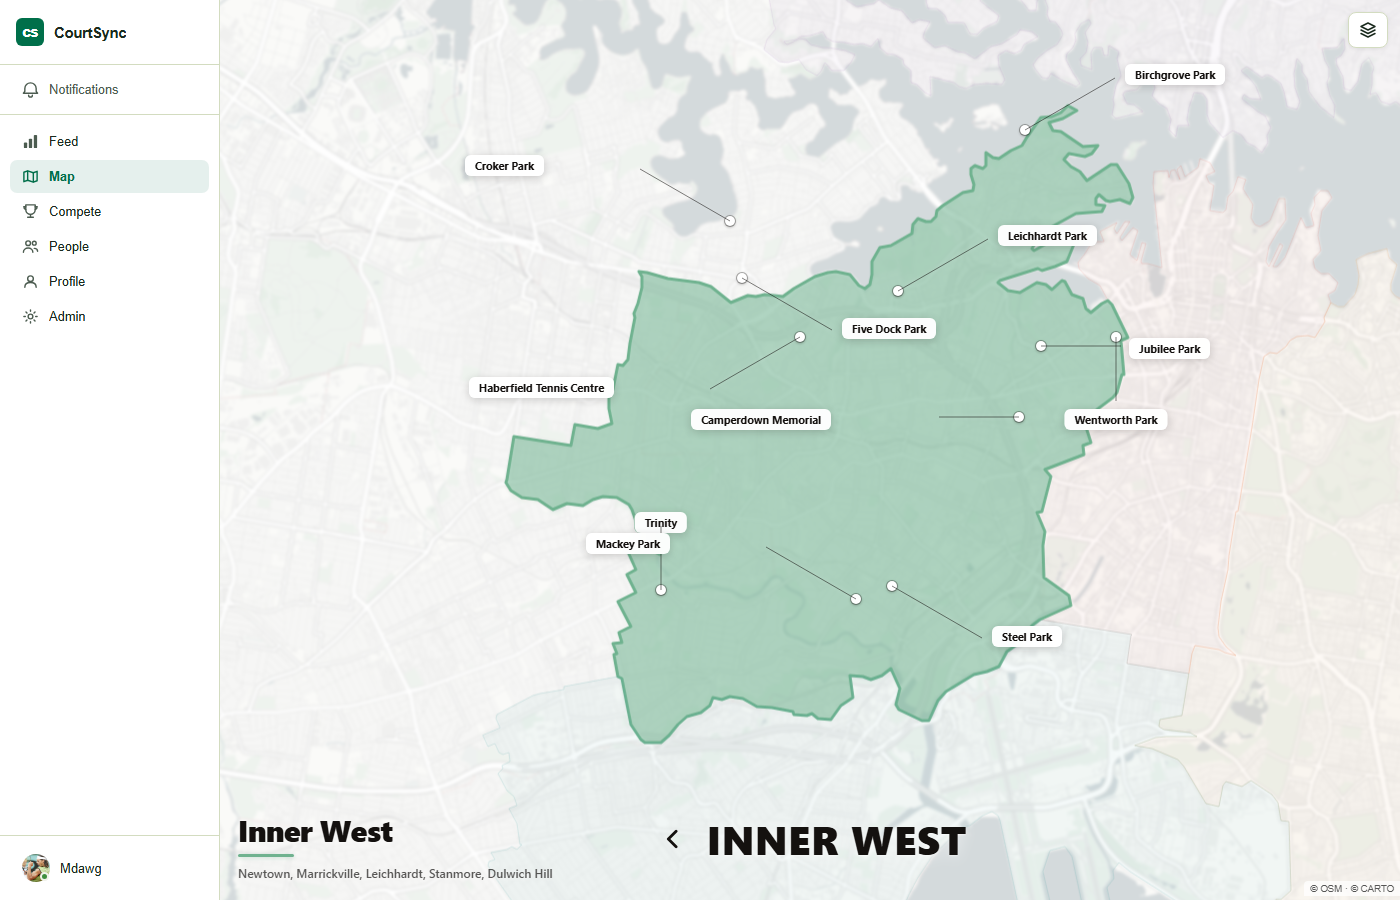
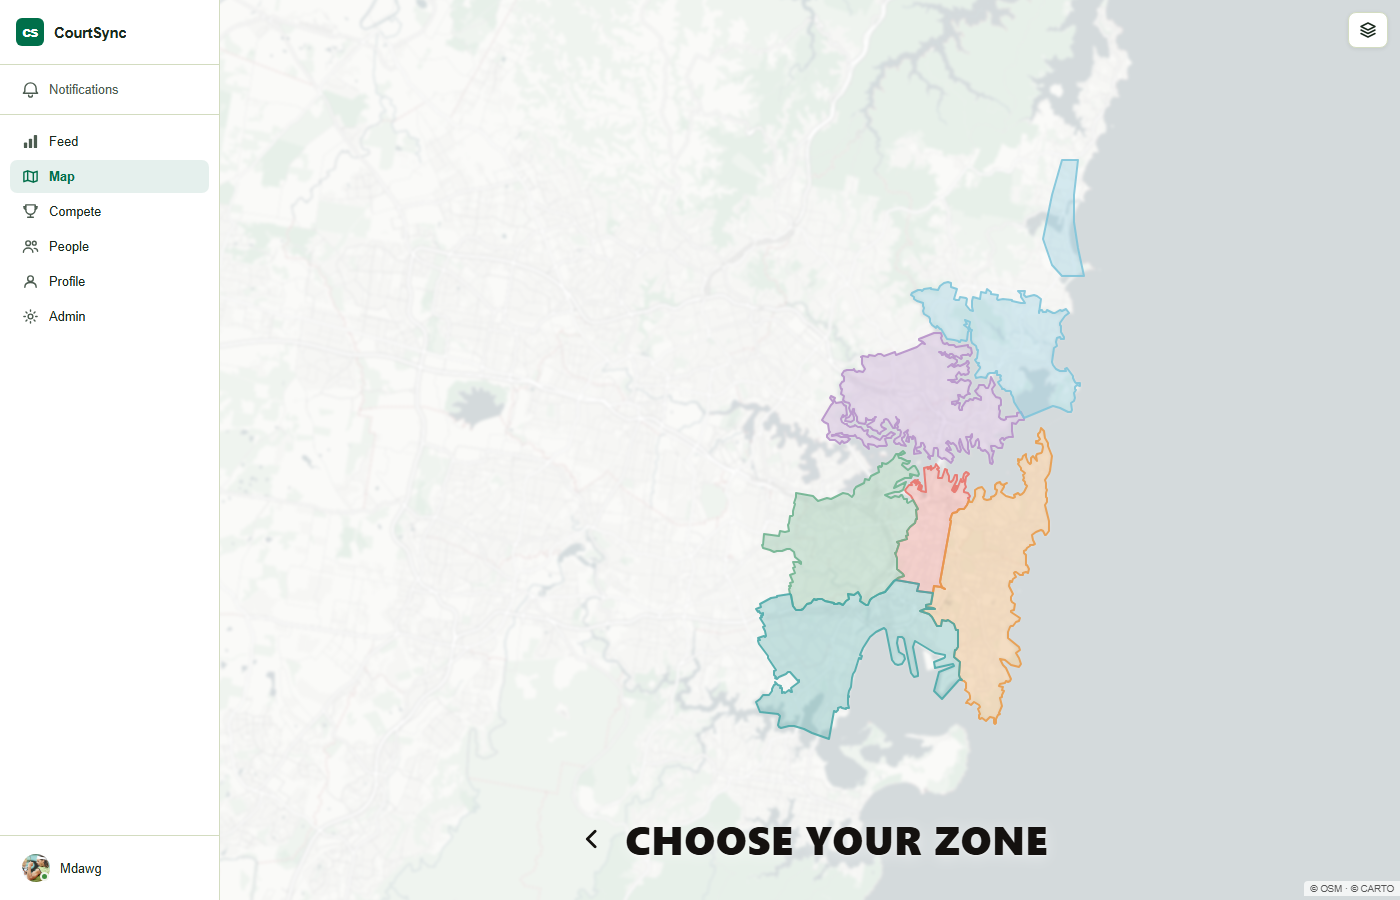
Map play mode: collision-aware court labels (calm + crowded)
User: remove the boxed labels + connector lines for normal courts.
Use clean caps text. Use lines+boxes only for courts that are too
close to neighbours.

Implementation:
  • After fitBounds settles (50ms timeout), project each court
    lat/lng to screen pixels via map.latLngToContainerPoint.
  • Pairwise pixel distance — if any neighbour is within 80px, the
    court is "crowded" and gets the offset+line treatment. Otherwise
    "calm" — pure caps typography below the dot.
  • Calm style:    .cs-play-name — no box, no line, full caps,
                   weight 800, 0.06em tracking, white halo shadow.
                   Sits 4px below the dot.
  • Crowded style: .cs-play-label — small all-caps chip with the
                   8-way diagonal line + offset (existing logic).
  • All labels are uppercase + 0.05-0.06em tracking for the brand
    voice (matches the "CHOOSE YOUR ZONE" prompt).

Net effect: most courts read as quiet typographic POIs; only the
ones in dense clusters (Eastern Suburbs southern stretch, dense
Inner West pockets) get the visual machinery to disambiguate.

Probe updated to expect the new structure. Note: bbox shifted with
the Northern Beaches manual polygon extension so the probe's
hardcoded click position is currently brittle — manual browser test
is the source of truth.

diff --git a/src/features/map/components/LeafletMap.jsx b/src/features/map/components/LeafletMap.jsx
@@ -473,68 +473,101 @@ export default function LeafletMap({
     playCourtsRef.current.forEach(function(m){ if(map.hasLayer(m)) map.removeLayer(m); });
     playCourtsRef.current = [];
     if(inPlayCourt){
-      // 8 placements cycle through to spread labels around each dot.
-      // Each entry: dot anchor (in icon pixels) + SVG line endpoints
-      // + label position. Icon is 220×100.
-      // Label box sits OUTSIDE the dot's quadrant, away from the
-      // anchor. With 8 directions there's enough variety that even
-      // tight clusters end up legible.
-      //   0 NE  · 1 NW  · 2 SE  · 3 SW
-      //   4 N   · 5 S   · 6 E   · 7 W
-      var DIRS = [
-        // Diagonal long
-        { name:"NE", anchor:[20,80], lineTo:[110,28], labelX:120, labelY:14 },
-        { name:"NW", anchor:[200,80], lineTo:[110,28], labelX: 14, labelY:14, rightAlign:true },
-        { name:"SE", anchor:[20,20], lineTo:[110,72], labelX:120, labelY:60 },
-        { name:"SW", anchor:[200,20], lineTo:[110,72], labelX: 14, labelY:60, rightAlign:true },
-        // Cardinal long
-        { name:"N",  anchor:[110,82], lineTo:[110,18], labelX:110, labelY: 4, centreLabel:true },
-        { name:"S",  anchor:[110,18], lineTo:[110,82], labelX:110, labelY:90, centreLabel:true },
-        { name:"E",  anchor:[20,50], lineTo:[100,50],  labelX:108, labelY:42 },
-        { name:"W",  anchor:[200,50], lineTo:[120,50], labelX: 12, labelY:42, rightAlign:true },
-      ];
+      // Collision-aware rendering.
+      //   • Compute each court's screen pixel after fitBounds.
+      //   • If a court has ANY neighbour within ~80px, mark it as
+      //     "crowded" — those use the 8-way diagonal offset + line.
+      //   • Otherwise render a clean caps text label below the dot
+      //     with no box and no connector. Quiet typography wins.
+      // Compute pixel positions on a microtask so fitBounds has
+      // finalised the projection.
       var zoneCourts = COURTS.filter(function(c){ return c.zone === playZoneId; });
-      zoneCourts.forEach(function(c, i){
-        var d = DIRS[i % DIRS.length];
-        var label = shortenCourtName(c.name);
-        // Position the label box. centreLabel = anchor on horizontal
-        // centre (for N/S). rightAlign = label sits on the LEFT of
-        // the anchor (anchor is right edge of label).
-        var labelStyle =
-          "position:absolute;top:" + d.labelY + "px;" +
-          (d.centreLabel
-            ? "left:" + d.labelX + "px;transform:translateX(-50%);"
-            : (d.rightAlign
-                ? "right:" + (220 - d.labelX) + "px;"
-                : "left:" + d.labelX + "px;")) +
-          "white-space:nowrap;";
-        var html =
-          '<div style="position:relative;width:220px;height:100px;cursor:pointer">' +
-            '<svg width="220" height="100" style="position:absolute;inset:0;pointer-events:none">' +
-              '<line x1="' + d.anchor[0] + '" y1="' + d.anchor[1] + '" ' +
-                    'x2="' + d.lineTo[0] + '" y2="' + d.lineTo[1] + '" ' +
-                    'stroke="rgba(20,18,17,0.55)" stroke-width="1" ' +
-                    'style="filter:drop-shadow(0 0 2px rgba(255,255,255,0.6))"/>' +
-            '</svg>' +
-            '<div class="cs-play-dot" style="position:absolute;' +
-              'left:' + (d.anchor[0] - 5) + 'px;top:' + (d.anchor[1] - 5) + 'px;"></div>' +
-            '<div class="cs-play-label" style="' + labelStyle + '">' + label + '</div>' +
-          '</div>';
-        var m = L.marker([c.lat, c.lng], {
-          icon: L.divIcon({
-            className: "cs-play-court",
-            html: html,
-            iconSize: [220, 100],
-            iconAnchor: d.anchor,
-          }),
-          zIndexOffset: 1500,
+      setTimeout(function(){
+        var map2 = mapRef.current;
+        if(!map2 || playMode !== "court") return;
+        var pts = zoneCourts.map(function(c){
+          return { c: c, pt: map2.latLngToContainerPoint([c.lat, c.lng]) };
         });
-        m.on("click", function(){
-          if(courtSelectRef.current) courtSelectRef.current(c);
+        var COLLISION_PX = 80;
+        pts.forEach(function(a){
+          a.crowded = pts.some(function(b){
+            if(b.c === a.c) return false;
+            var dx = a.pt.x - b.pt.x;
+            var dy = a.pt.y - b.pt.y;
+            return (dx*dx + dy*dy) < (COLLISION_PX * COLLISION_PX);
+          });
         });
-        m.addTo(map);
-        playCourtsRef.current.push(m);
-      });
+        // Clear any existing markers (we may rebuild here).
+        playCourtsRef.current.forEach(function(m){ if(map2.hasLayer(m)) map2.removeLayer(m); });
+        playCourtsRef.current = [];
+
+        // 8-way placements for the "crowded" path.
+        var DIRS = [
+          { name:"NE", anchor:[20,80], lineTo:[110,28], labelX:120, labelY:14 },
+          { name:"NW", anchor:[200,80], lineTo:[110,28], labelX: 14, labelY:14, rightAlign:true },
+          { name:"SE", anchor:[20,20], lineTo:[110,72], labelX:120, labelY:60 },
+          { name:"SW", anchor:[200,20], lineTo:[110,72], labelX: 14, labelY:60, rightAlign:true },
+          { name:"N",  anchor:[110,82], lineTo:[110,18], labelX:110, labelY: 4, centreLabel:true },
+          { name:"S",  anchor:[110,18], lineTo:[110,82], labelX:110, labelY:90, centreLabel:true },
+          { name:"E",  anchor:[20,50], lineTo:[100,50],  labelX:108, labelY:42 },
+          { name:"W",  anchor:[200,50], lineTo:[120,50], labelX: 12, labelY:42, rightAlign:true },
+        ];
+
+        pts.forEach(function(p, i){
+          var c = p.c;
+          var labelText = shortenCourtName(c.name).toUpperCase();
+          var html, iconSize, iconAnchor;
+
+          if(p.crowded){
+            // Crowded: 8-way offset + connector line + small label box.
+            var d = DIRS[i % DIRS.length];
+            var labelStyle =
+              "position:absolute;top:" + d.labelY + "px;" +
+              (d.centreLabel
+                ? "left:" + d.labelX + "px;transform:translateX(-50%);"
+                : (d.rightAlign
+                    ? "right:" + (220 - d.labelX) + "px;"
+                    : "left:" + d.labelX + "px;")) +
+              "white-space:nowrap;";
+            html =
+              '<div style="position:relative;width:220px;height:100px;cursor:pointer">' +
+                '<svg width="220" height="100" style="position:absolute;inset:0;pointer-events:none">' +
+                  '<line x1="' + d.anchor[0] + '" y1="' + d.anchor[1] + '" ' +
+                        'x2="' + d.lineTo[0] + '" y2="' + d.lineTo[1] + '" ' +
+                        'stroke="rgba(20,18,17,0.55)" stroke-width="1" ' +
+                        'style="filter:drop-shadow(0 0 2px rgba(255,255,255,0.6))"/>' +
+                '</svg>' +
+                '<div class="cs-play-dot" style="position:absolute;' +
+                  'left:' + (d.anchor[0] - 5) + 'px;top:' + (d.anchor[1] - 5) + 'px;"></div>' +
+                '<div class="cs-play-label" style="' + labelStyle + '">' + labelText + '</div>' +
+              '</div>';
+            iconSize = [220, 100];
+            iconAnchor = d.anchor;
+          } else {
+            // Calm: dot + caps label below, pure typography. No box,
+            // no line. Centred under the dot.
+            html =
+              '<div style="position:relative;width:160px;height:48px;cursor:pointer">' +
+                '<div class="cs-play-dot" style="position:absolute;left:75px;top:0"></div>' +
+                '<div class="cs-play-name" style="position:absolute;top:16px;left:0;right:0;text-align:center">' +
+                  labelText +
+                '</div>' +
+              '</div>';
+            iconSize = [160, 48];
+            iconAnchor = [80, 5]; // anchor at the dot centre
+          }
+
+          var m = L.marker([c.lat, c.lng], {
+            icon: L.divIcon({ className:"cs-play-court", html: html, iconSize: iconSize, iconAnchor: iconAnchor }),
+            zIndexOffset: 1500,
+          });
+          m.on("click", function(){
+            if(courtSelectRef.current) courtSelectRef.current(c);
+          });
+          m.addTo(map2);
+          playCourtsRef.current.push(m);
+        });
+      }, 50);
       // Fit the map to the picked zone so the courts are spread out
       // enough that their labels don't pile on top of each other.
       // fitBounds(bbox) with maxZoom 14 — the framing user liked

diff --git a/src/app/providers.jsx b/src/app/providers.jsx
@@ -109,10 +109,20 @@ export default function Providers({ t, theme, children }){
       // the lat/lng anchor + a glassy white label pill at the
       // diagonal offset. Direction cycles NE/NW/SE/SW per court.
       ".cs-play-court{pointer-events:auto}",
+      // Calm path — pure caps typography below the dot. No box, no
+      // line. Halo for legibility.
+      ".cs-play-name{font:800 10px/1.15 ui-sans-serif,system-ui,sans-serif;" +
+        "color:#14110f;letter-spacing:0.06em;text-transform:uppercase;" +
+        "white-space:nowrap;" +
+        "text-shadow:0 1px 2px rgba(255,255,255,0.85)," +
+        "0 0 6px rgba(255,255,255,0.65)}",
+      // Crowded path — small all-caps label inside a glassy chip.
+      // Used only when collision detection flags a court as having
+      // a neighbour within ~80px.
       ".cs-play-label{background:rgba(255,255,255,0.96);color:#14110f;" +
-        "padding:4px 10px;border-radius:6px;" +
-        "font:700 11px/1.2 ui-sans-serif,system-ui,sans-serif;" +
-        "letter-spacing:-0.01em;" +
+        "padding:3px 8px;border-radius:5px;" +
+        "font:800 10px/1.2 ui-sans-serif,system-ui,sans-serif;" +
+        "letter-spacing:0.05em;text-transform:uppercase;" +
         "box-shadow:0 2px 8px rgba(20,18,17,0.18);" +
         "backdrop-filter:blur(8px);-webkit-backdrop-filter:blur(8px)}",
       ".cs-play-dot{width:10px;height:10px;border-radius:50%;background:#fff;" +
